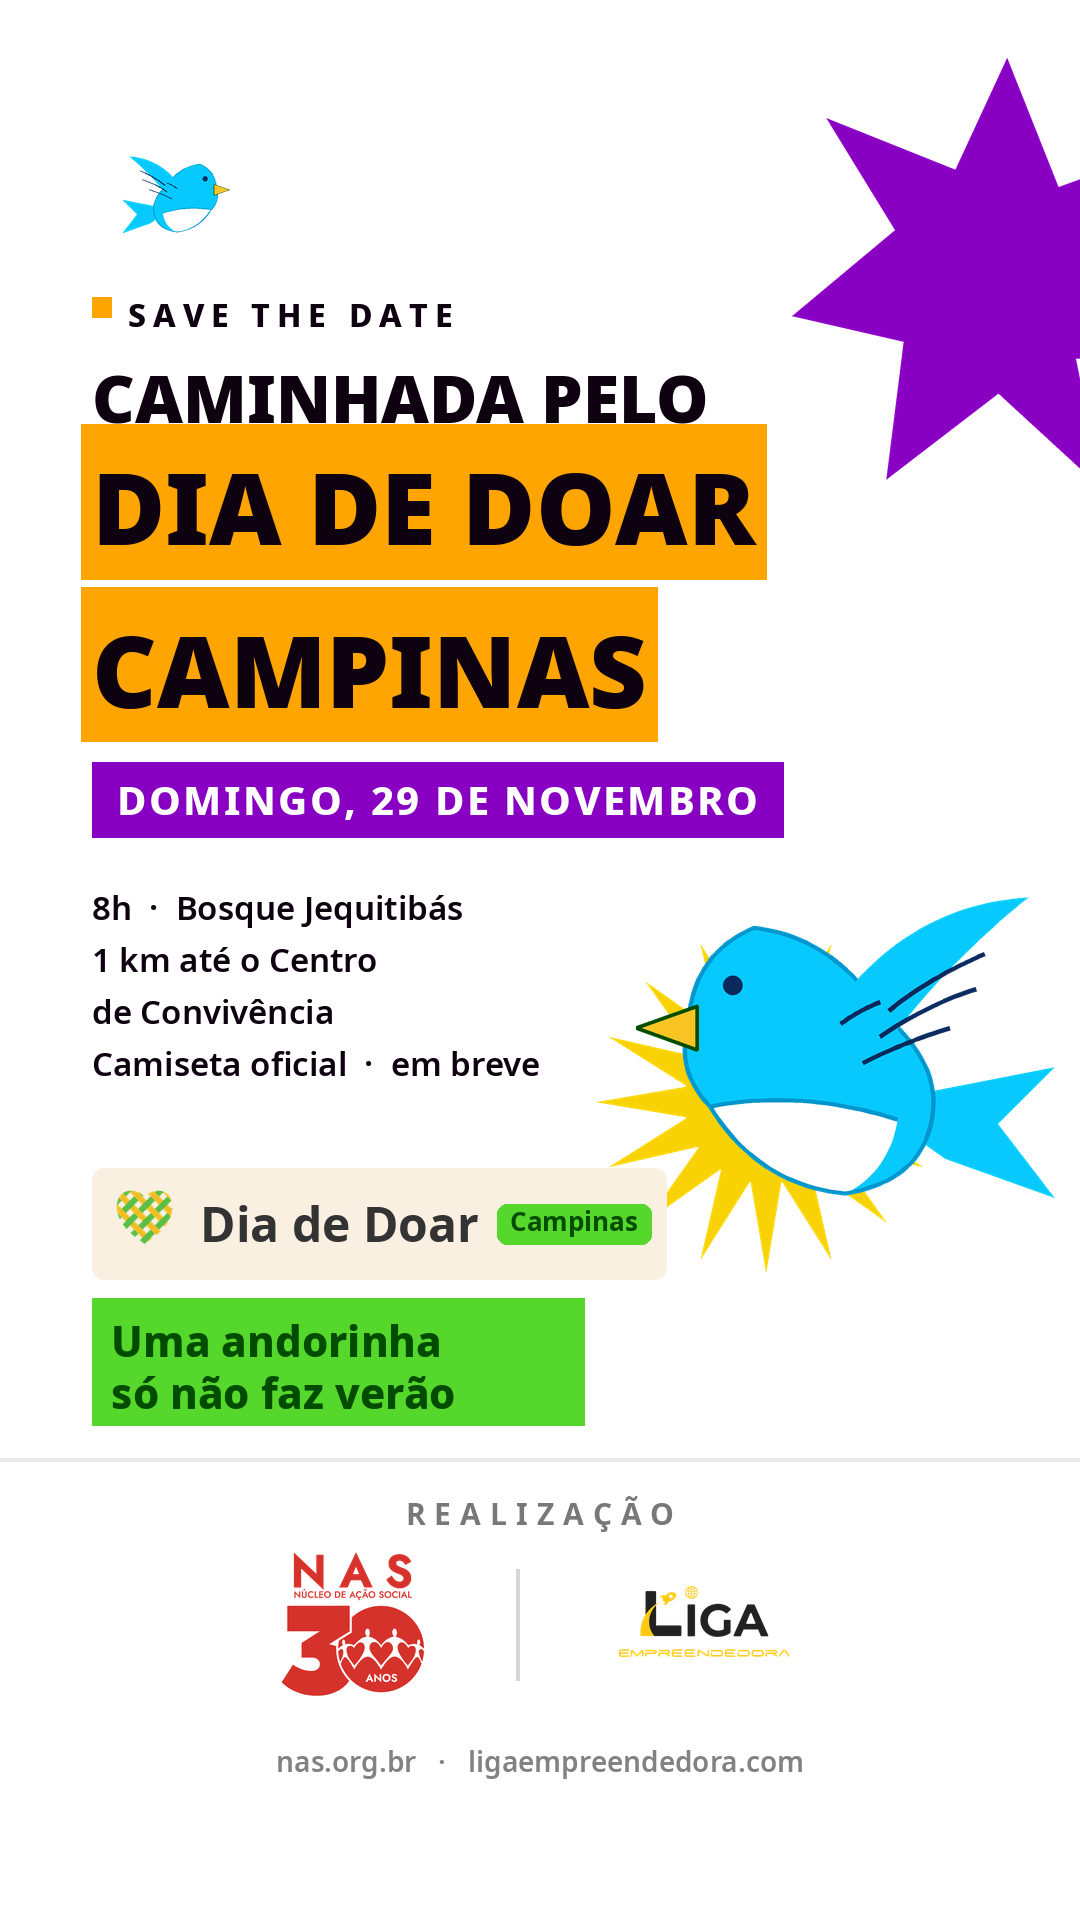
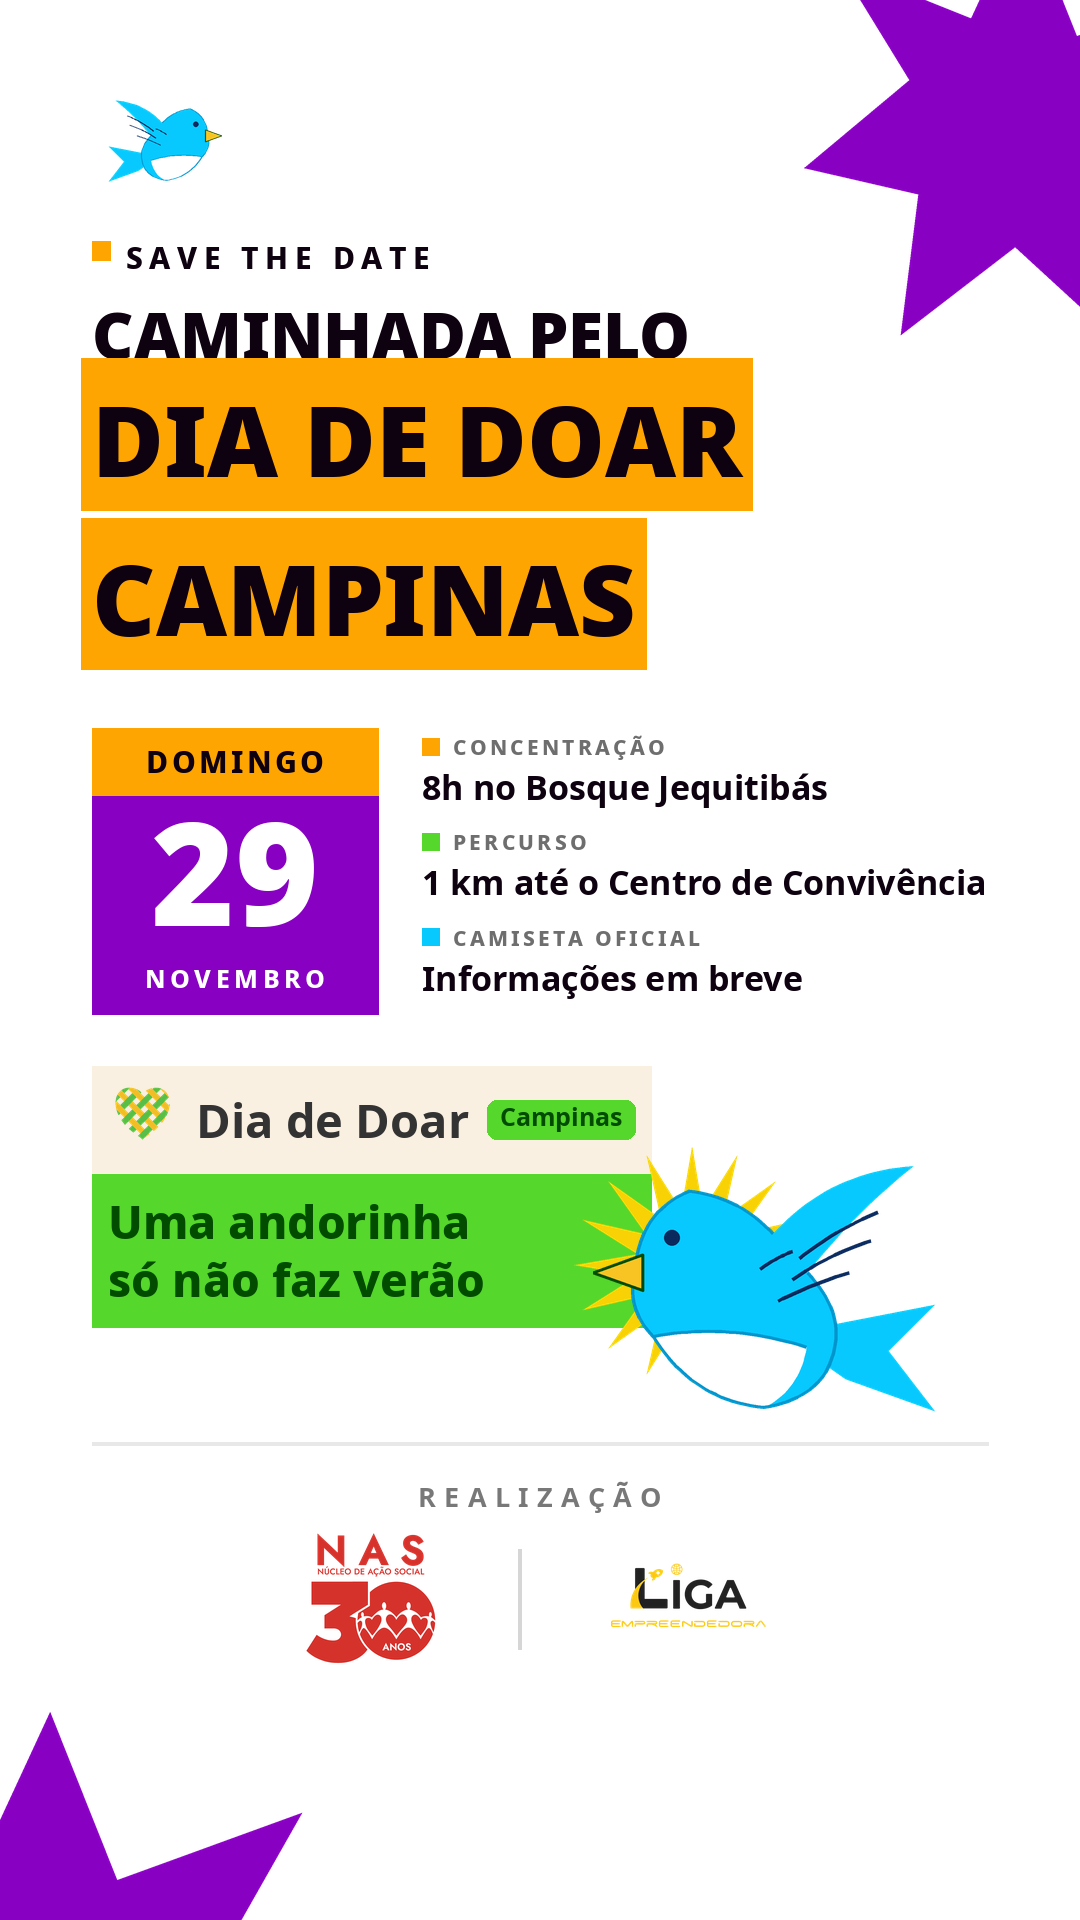
Redesenha o story do save the date
Remove os links de site, que em imagem de story nao sao clicaveis e
disputavam atencao com a assinatura.

A data passa a ser uma folha de calendario, com as informacoes praticas em
linhas rotuladas ao lado. O card do movimento repete a composicao da arte
original, com o sol e a andorinha saindo pela borda, agora sem cobrir o selo
Campinas. Todo o conteudo fica dentro da zona segura do Instagram.

diff --git a/nas-liga-dia-de-doar/fontes/gera_posts.py b/nas-liga-dia-de-doar/fontes/gera_posts.py
@@ -70,6 +70,69 @@ def assinatura(im, dr, cx, y, alt_logo=96, label=True, escala=1.0):
     return y + alt_logo
 
 
+def calendario(dr, x, y, lado, dia="29", mes="NOVEMBRO", semana="DOMINGO"):
+    """Folha de calendário, cabeçalho laranja e corpo roxo."""
+    h_cab = int(lado * 0.24)
+    dr.rectangle([x, y, x + lado, y + h_cab], fill=M.LARANJA)
+    dr.rectangle([x, y + h_cab, x + lado, y + lado], fill=M.ROXO)
+
+    f_sem = M.fonte("ExtraBold", lado * 0.105)
+    tr = lado * 0.012
+    w = M.largura_espacada(dr, semana, f_sem, tr)
+    bb = f_sem.getbbox(semana)
+    M.texto_espacado(dr, (x + (lado - w) / 2, y + (h_cab - (bb[3] - bb[1])) / 2 - bb[1]),
+                     semana, f_sem, M.PRETO, tr)
+
+    f_dia = M.fonte("Black", lado * 0.50)
+    bb = f_dia.getbbox(dia)
+    wd = bb[2] - bb[0]
+    corpo = lado - h_cab
+    y_dia = y + h_cab + corpo * 0.12 - bb[1]
+    dr.text((x + (lado - wd) / 2 - bb[0], y_dia), dia, font=f_dia, fill=M.BRANCO)
+
+    f_mes = M.fonte("ExtraBold", lado * 0.088)
+    tr = lado * 0.016
+    w = M.largura_espacada(dr, mes, f_mes, tr)
+    bbm = f_mes.getbbox(mes)
+    y_mes = y + lado - corpo * 0.12 - (bbm[3] - bbm[1]) - bbm[1]
+    M.texto_espacado(dr, (x + (lado - w) / 2, y_mes), mes, f_mes, M.BRANCO, tr)
+
+
+def linha_info(dr, x, y, rotulo_txt, valor, larg_max, cor_marca, tam_val=34):
+    """Linha de informação com marcador, rótulo pequeno e valor em destaque."""
+    s = 17
+    dr.rectangle([x, y + 6, x + s, y + 6 + s], fill=cor_marca)
+    f_rot = M.fonte("ExtraBold", 21)
+    M.texto_espacado(dr, (x + s + 14, y), rotulo_txt, f_rot, (110, 110, 110), 3.2)
+
+    tam = tam_val
+    while tam > 22:
+        f_val = M.fonte("Bold", tam)
+        if dr.textlength(valor, font=f_val) <= larg_max:
+            break
+        tam -= 1
+    dr.text((x, y + 31), valor, font=f_val, fill=M.PRETO)
+
+
+def card_movimento(im, dr, x, y, alt_logo=76, tam_tag=46):
+    """Card no estilo da arte original, logo sobre creme e tagline sobre verde."""
+    logo = M.logo_dia_de_doar(alt_logo)
+    w, h_cab = logo.size
+    dr.rectangle([x, y, x + w, y + h_cab], fill=M.CREME)
+    im.alpha_composite(logo, (x, y))
+
+    f = M.fonte("ExtraBold", tam_tag)
+    pad_x = int(alt_logo * 0.22)
+    pad_y = int(tam_tag * 0.42)
+    h_corpo = int(tam_tag * 1.26 * 2 + pad_y * 2)
+    y2 = y + h_cab
+    dr.rectangle([x, y2, x + w, y2 + h_corpo], fill=M.VERDE)
+    dr.text((x + pad_x, y2 + pad_y - 4), "Uma andorinha", font=f, fill=M.VERDE_ESC)
+    dr.text((x + pad_x, y2 + pad_y - 4 + tam_tag * 1.26), "só não faz verão",
+            font=f, fill=M.VERDE_ESC)
+    return w, h_cab + h_corpo
+
+
 # ===================================================================== FEED
 def post_feed():
     W = H = 1080
@@ -130,54 +193,58 @@ def post_story():
     MG = 92
     im = Image.new("RGBA", (W, H), (255, 255, 255, 255))
 
-    # ---- decoração
-    im.alpha_composite(M.estrela_roxa(430), (792, 58))
-    im.alpha_composite(M.andorinha(112, espelhar=True), (118, 152))
-    im.alpha_composite(M.sol(340), (596, 932))
-    im.alpha_composite(M.andorinha(436), (636, 880))
+    # ---- decoração de canto, fora das zonas de leitura
+    im.alpha_composite(M.estrela_roxa(440), (804, -96))
+    im.alpha_composite(M.estrela_roxa(560), (-230, 1712))
+    im.alpha_composite(M.andorinha(118, espelhar=True), (104, 96))
 
     dr = ImageDraw.Draw(im)
 
-    rotulo(im, dr, MG, 292, "SAVE THE DATE", 32)
-
-    f_med = M.fonte("Black", 66)
-    f_big = M.fonte("Black", 100)
-    dr.text((MG, 352), "CAMINHADA PELO", font=f_med, fill=M.PRETO)
-    y = 438
+    # ---- 1. título
+    rotulo(im, dr, MG, 236, "SAVE THE DATE", 30)
+    f_med = M.fonte("Black", 64)
+    f_big = M.fonte("Black", 98)
+    dr.text((MG, 290), "CAMINHADA PELO", font=f_med, fill=M.PRETO)
+    y = 372
     _, h = M.faixa_titulo(im, dr, (MG, y), "DIA DE DOAR", f_big)
     y += h + 8
-    M.faixa_titulo(im, dr, (MG, y), "CAMPINAS", f_big)
+    _, h = M.faixa_titulo(im, dr, (MG, y), "CAMPINAS", f_big)
+    y_fim_titulo = y + h
 
-    # ---- data
-    y = 762
-    f_data = M.fonte("ExtraBold", 40)
-    txt = "DOMINGO, 29 DE NOVEMBRO"
-    w = M.largura_espacada(dr, txt, f_data, 2.4)
-    asc, desc = f_data.getmetrics()
-    dr.rectangle([MG, y, MG + w + 50, y + asc + desc + 20], fill=M.ROXO)
-    M.texto_espacado(dr, (MG + 25, y + 10), txt, f_data, (255, 255, 255), 2.4)
+    # ---- 2. calendário e informações lado a lado
+    y = int(y_fim_titulo + 46)
+    LADO = 286
+    calendario(dr, MG, y, LADO)
 
-    # ---- informações
-    bloco_info(dr, MG, 884, [
-        "8h  ·  Bosque Jequitibás",
-        "1 km até o Centro",
-        "de Convivência",
-        "Camiseta oficial  ·  em breve",
-    ], tam=33, lh=1.58)
+    x_info = MG + LADO + 44
+    larg_info = W - x_info - 56
+    passo = LADO / 3
+    linha_info(dr, x_info, y + 4, "CONCENTRAÇÃO", "8h no Bosque Jequitibás",
+               larg_info, M.LARANJA)
+    linha_info(dr, x_info, y + 4 + passo, "PERCURSO", "1 km até o Centro de Convivência",
+               larg_info, M.VERDE)
+    linha_info(dr, x_info, y + 4 + passo * 2, "CAMISETA OFICIAL", "Informações em breve",
+               larg_info, M.CIANO)
 
-    # ---- logo e tagline
-    logo = M.logo_dia_de_doar(78, fundo=M.CREME)
-    im.alpha_composite(logo, (MG, 1168))
-    caixa_tagline(im, dr, MG, 1298, 492, tam=42)
+    # ---- 3. card do movimento, com sol e andorinha saindo dele
+    y_card = int(y + LADO + 52)
+    w_card, h_card = card_movimento(im, dr, MG, y_card, alt_logo=76, tam_tag=46)
+    x_borda = MG + w_card
+    ave = M.andorinha(356)
+    # cabeça da andorinha, em unidades da caixa de 100, fica perto de (28, 32)
+    esc = ave.size[0] / 100
+    x_ave = int(x_borda - 58)
+    y_ave = int(y_card + h_card - 0.60 * ave.size[1])
+    cab_x, cab_y = x_ave + 28 * esc, y_ave + 32 * esc
+    SOL = 236
+    im.alpha_composite(M.sol(SOL), (int(cab_x - SOL / 2), int(cab_y - SOL / 2)))
+    im.alpha_composite(ave, (x_ave, y_ave))
+    y_fim_ave = y_ave + ave.getchannel("A").getbbox()[3]
 
-    # ---- assinatura
-    dr.rectangle([0, 1458, W, 1461], fill=(234, 234, 234))
-    fim = assinatura(im, dr, W / 2, 1492, alt_logo=146, label=True, escala=1.25)
-
-    f_site = M.fonte("SemiBold", 28)
-    site = "nas.org.br   ·   ligaempreendedora.com"
-    ws = dr.textlength(site, font=f_site)
-    dr.text(((W - ws) / 2, fim + 44), site, font=f_site, fill=(130, 130, 130))
+    # ---- 4. assinatura
+    y_ass = int(max(y_card + h_card + 72, y_fim_ave + 28))
+    dr.rectangle([MG, y_ass, W - MG, y_ass + 3], fill=(232, 232, 232))
+    assinatura(im, dr, W / 2, y_ass + 36, alt_logo=132, label=True, escala=1.15)
 
     return im.convert("RGB")
 

diff --git a/nas-liga-dia-de-doar/README.md b/nas-liga-dia-de-doar/README.md
@@ -53,7 +53,13 @@ A integração das duas identidades funciona porque o amarelo da Liga, `#FDC815`
 
 **A assinatura fica isolada no rodapé**, separada por um filete e sobre branco. Em peça com duas organizações, assinatura disputando espaço com ilustração gera a leitura de patrocínio em vez de realização conjunta.
 
-**No story a composição respeita as zonas de segurança** do Instagram, com os 250 pixels do topo e da base livres de informação crítica. O conteúdo vive entre 260 e 1670.
+**No story a data vira uma folha de calendário**, com cabeçalho laranja para o dia da semana e corpo roxo para o dia e o mês. Ao lado dela ficam as três informações práticas, cada uma com um rótulo pequeno e o valor em destaque, marcadas com as cores da paleta. Assim a pessoa lê a data de longe e os detalhes de perto.
+
+**O card do movimento repete a composição da arte original**, logo do Dia de Doar sobre creme e tagline sobre verde, com o sol e a andorinha saindo pela borda direita. É a referência visual mais reconhecível da campanha em Campinas.
+
+**O story não tem links.** Link escrito em imagem de story não é clicável, ocupa espaço e disputa atenção com a assinatura. Se for preciso direcionar para um site, use a figurinha de link do próprio Instagram, posicionada na área livre abaixo da assinatura.
+
+**O story respeita as zonas de segurança** do Instagram. O texto começa em 236 pixels e o último elemento de conteúdo termina em 1662, deixando a base livre para a barra de resposta. As formas roxas e a andorinha pequena ficam nos cantos, só como decoração.
 
 ## Ilustrações
 
